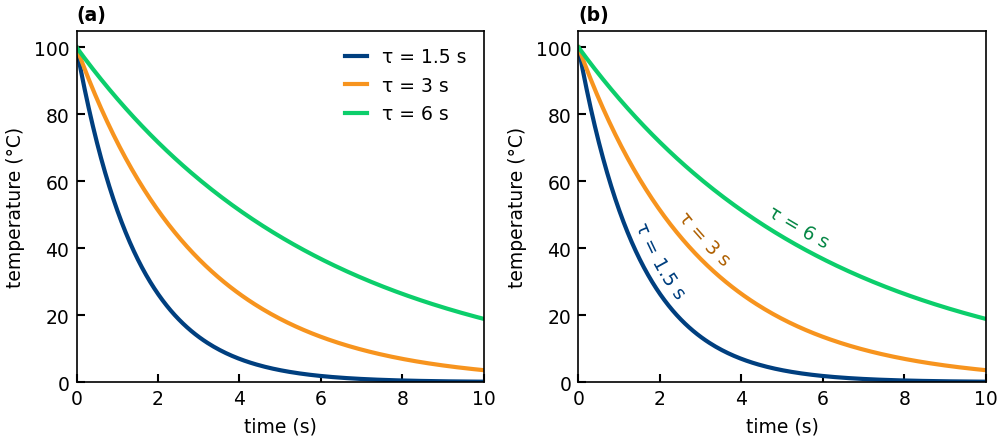
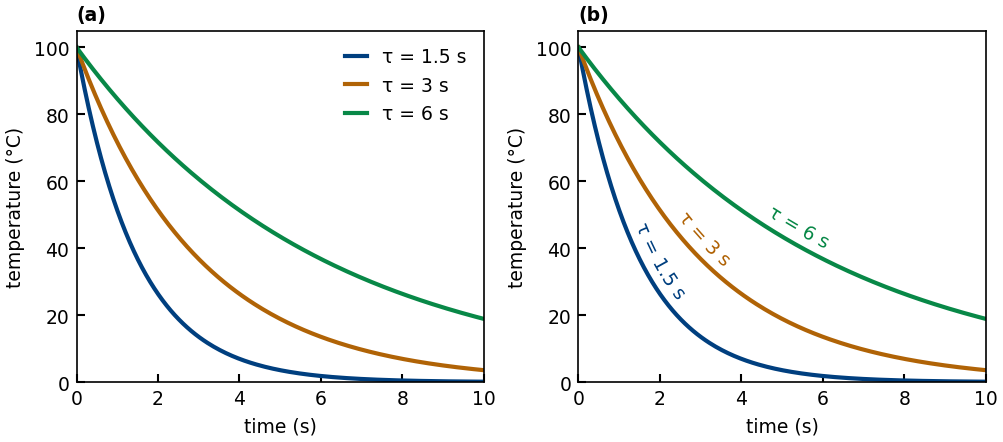
Draw each data series' line in its label's text shade, name the near-black reference colour, and tidy the stock and blackbody scripts

diff --git a/examples/example_23_stocks.py b/examples/example_23_stocks.py
@@ -1,17 +1,26 @@
 """Stock prices on real dates, each line labelled along its path.
 
-Monthly prices from Yahoo Finance, January 1990 to June 2022, from the
-``Stocks.csv`` sample data that ships with matplotlib. Each price is divided
-by its January 1990 value and smoothed with a 12-month rolling mean. The
-dates go to ``plot`` and ``curved_text`` as ``datetime64`` values, which the
-axis's date converter handles for both. The S&P 500 index is the reference
-line, in near-black. Each label sits above or below a smooth stretch of its
-line, wherever the space beside the line is open. Even smoothed, a monthly
-line wiggles at the scale of a letter, which would tilt neighbouring letters
-into each other, so each label rides the line smoothed once more, by a
-Gaussian a few months wide on the log scale the axis shows: a path that
-follows the line but not its letter-sized wiggles, and is not drawn. Older
-matplotlib versions do not ship ``Stocks.csv``; there the figure is skipped.
+Monthly values from Yahoo Finance, January 1990 to June 2022, from the
+``Stocks.csv`` sample data that ships with matplotlib: adjusted closing
+prices for three stocks, which include reinvested dividends, and the S&P 500
+price index, which does not. Each series is divided by its January 1990
+value and smoothed with a rolling mean over ``WINDOW_MONTHS``. The dates go
+to ``plot`` and ``curved_text`` as ``datetime64`` values, which the axis's
+date converter handles for both. The S&P 500 is the reference line, in
+near-black. Each label sits above or below a smooth stretch of its line,
+wherever the space beside the line is open, and no label sits where lines
+cross, so none needs a casing.
+
+Even smoothed, a monthly line wiggles at the scale of a letter, which would
+tilt neighbouring letters into each other, so each label rides the line
+smoothed once more by a Gaussian about a letter wide, on the log scale the
+axis shows: a path that follows the line without those wiggles, and is not
+drawn (#61 tracks handling this in the library).
+
+The file is read with the ``csv`` module rather than pandas, so this figure
+runs without the ``examples`` extra; the seaborn figure, 09, shows pandas.
+Older matplotlib versions do not ship ``Stocks.csv``; there the figure is
+skipped.
 """
 from __future__ import annotations
 
@@ -22,33 +31,34 @@ import numpy as np
 from matplotlib.ticker import StrMethodFormatter
 
 from curved_text import curved_text
-from _style import (PALETTE, TEXT, data_axes, figure, sample_data, save,
-                    smooth_path)
+from _style import (REFERENCE_COLOR, TEXT, data_axes, figure, sample_data,
+                    save, smooth_path)
 
-# Column, label, line and text colour, the dates the label rides (centred
-# on them), and its offset in points: positive above the line, negative below.
+# Column, label, colour of the line and its label, the dates the label rides
+# (centred on them), and its offset in points: positive above the line,
+# negative below.
 SERIES = [
-    ("MSFT", "Microsoft", PALETTE["blue"], TEXT["blue"],
-     ("2013-01-01", "2019-01-01"), 8.0),
-    ("IBM", "IBM", PALETTE["green"], TEXT["green"],
-     ("2010-06-01", "2015-06-01"), 8.0),
-    ("^GSPC", "S&P 500", "0.15", "0.15", ("2013-06-01", "2019-06-01"), -8.0),
-    ("XRX", "Xerox", PALETTE["gold"], TEXT["gold"],
-     ("2015-06-01", "2019-06-01"), 8.0),
+    ("MSFT", "Microsoft", TEXT["blue"], ("2013-01-01", "2019-01-01"), 8.0),
+    ("IBM", "IBM", TEXT["green"], ("2010-06-01", "2015-06-01"), 8.0),
+    ("^GSPC", "S&P 500", REFERENCE_COLOR, ("2013-06-01", "2019-06-01"), -8.0),
+    ("XRX", "Xerox", TEXT["gold"], ("2016-01-01", "2019-06-01"), 8.0),
 ]
 WINDOW_MONTHS = 12
-# The width (standard deviation, in months) of the Gaussian that smooths each
-# label's path: about the width of a letter on this axis.
+# The standard deviation, in months, of the Gaussian that smooths each label's
+# path: about the width of a letter on this axis.
 LABEL_SMOOTHING_MONTHS = 3.0
 
 
 def _read_stocks(path):
     """Dates and the column-to-prices table, without the dividend-date rows,
-    which have no prices."""
+    which have no prices, and without a row that repeats the one before it,
+    as the file's last row repeats June 2022."""
     with open(path, newline="") as f:
         rows = [row for row in csv.reader(f)
                 if row and not row[0].startswith("#")]
     header, rows = rows[0], [row for row in rows[1:] if any(row[1:])]
+    rows = [row for i, row in enumerate(rows)
+            if i == 0 or row[1:] != rows[i - 1][1:]]
     dates = np.array([row[0] for row in rows], dtype="datetime64[D]")
     column_to_prices = {
         name: np.array([float(row[i]) if row[i] else np.nan for row in rows])
@@ -58,7 +68,7 @@ def _read_stocks(path):
 
 
 def _rolling_mean(values, window):
-    """The mean of each run of ``window`` values, dated at the run's centre."""
+    """The mean of each run of ``window`` consecutive values."""
     return np.convolve(values, np.ones(window) / window, mode="valid")
 
 
@@ -68,23 +78,23 @@ def make(images_dir):
         print("  (skipped 23_stocks: this matplotlib has no Stocks.csv)")
         return None
     dates, column_to_prices = _read_stocks(path)
-    # Each smoothed value is dated at the middle of its 12-month window.
+    # Each smoothed value is dated at the middle of its window.
     smoothed_dates = dates[WINDOW_MONTHS // 2:][:len(dates) - WINDOW_MONTHS + 1]
 
     fig = figure(17, 10, font_size=9)
     ax = data_axes(fig.subplots())
-    for column, label, line, text, (start, end), offset in SERIES:
+    for column, label, color, (start, end), offset in SERIES:
         prices = column_to_prices[column]
         relative = _rolling_mean(prices / prices[0], WINDOW_MONTHS)
-        ax.plot(smoothed_dates, relative, color=line, linewidth=2)
+        ax.plot(smoothed_dates, relative, color=color, linewidth=2)
         span = ((smoothed_dates >= np.datetime64(start))
                 & (smoothed_dates <= np.datetime64(end)))
         label_path = smooth_path(relative, LABEL_SMOOTHING_MONTHS, log=True)[span]
         curved_text(ax, smoothed_dates[span], label_path, label, pos=0.5,
-                    anchor="center", offset=offset, color=text, fontsize=9)
+                    anchor="center", offset=offset, color=color, fontsize=9)
     ax.set_yscale("log")
     ax.yaxis.set_major_formatter(StrMethodFormatter("{x:g}"))
-    ax.set_ylabel("price relative to January 1990")
+    ax.set_ylabel("value relative to January 1990")
 
     path = os.path.join(images_dir, "23_stocks.png")
     return save(fig, path)

diff --git a/examples/_style.py b/examples/_style.py
@@ -1,14 +1,15 @@
 """Shared palette and helpers for the curved-text example gallery.
 
 Follows the repo's plot conventions: the DICE palette with contrast-checked
-text shades, white opaque
-background, constrained layout, sizes in centimetres, explicit dpi. Most panels
-here are diagrams whose subject is the text-on-curve geometry, so they hide
-their axes -- the curve is the data, and bare quantitative ticks would be
-chartjunk. The figures that plot data (direct labeling, its usetex version,
-the seaborn figure, and the applications on real data or physical laws) keep
-axes with units, and so does the log-axis panel of the gaps figure, whose subject
-is the scale.
+text shades, white opaque background, constrained layout, sizes in
+centimetres, explicit dpi. Most panels here are diagrams whose subject is the
+text-on-curve geometry, so they hide their axes -- the curve is the data, and
+bare quantitative ticks would be chartjunk. The figures that plot data (direct
+labeling, its usetex version, the seaborn figure, and the applications on real
+data or physical laws) keep axes with units, and so does the log-axis panel of
+the gaps figure, whose subject is the scale. Two data helpers sit here as
+well: ``sample_data`` finds matplotlib's sample data, and ``smooth_path``
+smooths the path a label rides on a line of real data.
 """
 from __future__ import annotations
 
@@ -19,11 +20,13 @@ import matplotlib.patheffects as patheffects
 import numpy as np
 import matplotlib.pyplot as plt
 
-# DICE palette set: blue / gold / green, for lines and fills in every figure.
+# DICE palette set: blue / gold / green.
 PALETTE = {"blue": "#003f7f", "gold": "#f7941e", "green": "#0cce6b"}
 # The same hues dark enough for text, at least 4.5:1 against white by the WCAG 2
-# contrast formula (lines and marks need 3:1). DICE gold and green are 2.28:1
-# and 2.09:1, too light to read as text; DICE blue is 10.4:1 already.
+# contrast formula. DICE gold and green are 2.28:1 and 2.09:1, too light to
+# read as text, and below the 3:1 that WCAG asks of lines and marks; DICE blue
+# is 10.4:1 already. A labelled data series uses its text shade for both its
+# line and its label, so the two match exactly and both pass.
 TEXT = {
     "blue": "#003f7f",   # 10.41:1
     "gold": "#b06306",   # 4.53:1
@@ -32,12 +35,16 @@ TEXT = {
 # Colour roles in the diagrams, where the curve and the label are the subject:
 # the curve in DICE blue, the label in dark gold, and a reference mark (such as
 # the anchor point) as a dark green ring drawn above the label, so it never
-# hides behind the text. Data figures colour each series in its DICE hue and
-# its label in the matching text shade. One exception: 08 shows ``alpha``, which
-# lightens its label, and only dark blue stays above 4.5:1 at alpha 0.85.
+# hides behind the text. Data figures colour each series, line and label
+# alike, in one text shade, and draw a reference series that the others are
+# read against (the Sun among the blackbodies, the S&P 500 among the stocks)
+# in near-black (15:1). One exception: 08
+# shows ``alpha``, which lightens its label, and only dark blue stays above
+# 4.5:1 at alpha 0.85.
 CURVE_COLOR = PALETTE["blue"]
 LABEL_COLOR = TEXT["gold"]
 MARK_COLOR = TEXT["green"]
+REFERENCE_COLOR = "0.15"
 INCH = 1 / 2.54
 DPI = 150
 
@@ -130,13 +137,16 @@ def anchor_xy(ax, x, y, pos):
 
 
 def smooth_path(values, sigma, log=False):
-    """``values`` smoothed by a Gaussian ``sigma`` samples wide, on a log scale
-    if ``log``, with the ends held at their values so the path keeps its span.
+    """``values`` smoothed by a Gaussian with a standard deviation of
+    ``sigma`` samples, on a log scale if ``log``.
+
+    Each end is padded with its own value, so the result has as many samples
+    as ``values`` and covers the same span.
 
     A label on a line of real data rides this path rather than the line: even
     smoothed, a line of monthly data wiggles at the scale of a letter, which
-    tilts neighbouring letters into each other. With ``sigma`` about a letter
-    wide, the path follows the line without those wiggles.
+    tilts neighbouring letters into each other. With ``sigma`` about a letter's
+    width, the path follows the line without those wiggles.
     """
     values = np.asarray(values, dtype=float)
     reach = int(4 * sigma)

diff --git a/examples/example_09_seaborn_pandas.py b/examples/example_09_seaborn_pandas.py
@@ -14,18 +14,19 @@ from __future__ import annotations
 import os
 
 from curved_text import curved_text
-from _style import PALETTE, TEXT, figure, sample_data, save, smooth_path
+from _style import TEXT, figure, sample_data, save, smooth_path
 
-# Column, label, line and text colour, the dates the label rides (centred on
-# them), and its offset in points: positive above the line, negative below.
+# Column, label, colour of the line and its label, the dates the label rides
+# (centred on them), and its offset in points: positive above the line,
+# negative below.
 SERIES = [
-    ("^IXIC", "NASDAQ Composite", PALETTE["blue"], TEXT["blue"],
-     ("2010-01-01", "2017-01-01"), 8.0),
-    ("^GSPC", "S&P 500", PALETTE["gold"], TEXT["gold"],
-     ("2010-01-01", "2017-01-01"), -8.0),
+    ("^IXIC", "NASDAQ Composite", TEXT["blue"], ("2010-01-01", "2017-01-01"),
+     8.0),
+    ("^GSPC", "S&P 500", TEXT["gold"], ("2010-01-01", "2017-01-01"), -8.0),
 ]
 WINDOW_MONTHS = 12
-# The width, in months, of the Gaussian that smooths each label's path.
+# The standard deviation, in months, of the Gaussian that smooths each label's
+# path (see ``smooth_path``): about the width of a letter on this axis.
 LABEL_SMOOTHING_MONTHS = 3.0
 
 
@@ -41,29 +42,32 @@ def make(images_dir):
     if path is None:
         print("  (skipped 09_seaborn_pandas: this matplotlib has no Stocks.csv)")
         return None
+    # Without the dividend-date rows, which have no prices, and without the
+    # file's last row, which repeats June 2022.
     stocks = (pd.read_csv(path, comment="#", parse_dates=["Date"])
               .dropna(how="all", subset=[column for column, *_ in SERIES])
               .set_index("Date"))
-    # A 12-month rolling mean, dated at the middle of its window.
+    stocks = stocks[~stocks.duplicated()]
+    # A rolling mean over the window, dated at the middle of the window.
     smoothed = stocks.rolling(WINDOW_MONTHS, center=True).mean()
     long_form = (smoothed[[column for column, *_ in SERIES]]
                  .reset_index()
-                 .melt(id_vars="Date", var_name="index", value_name="level")
+                 .melt(id_vars="Date", var_name="series", value_name="level")
                  .dropna())
 
     with sns.axes_style("whitegrid"):
         fig = figure(17, 9, font_size=9)
         ax = fig.subplots()
-        sns.lineplot(data=long_form, x="Date", y="level", hue="index",
-                     palette={column: line for column, _, line, *_ in SERIES},
+        sns.lineplot(data=long_form, x="Date", y="level", hue="series",
+                     palette={column: color for column, _, color, *_ in SERIES},
                      linewidth=2, legend=False, ax=ax)
-        for column, label, _, text, (start, end), offset in SERIES:
+        for column, label, color, (start, end), offset in SERIES:
             line_values = smoothed[column].dropna()
             label_path = pd.Series(
                 smooth_path(line_values, LABEL_SMOOTHING_MONTHS),
                 index=line_values.index).loc[start:end]
             curved_text(ax, label_path.index, label_path.to_numpy(), label,
-                        pos=0.5, anchor="center", offset=offset, color=text,
+                        pos=0.5, anchor="center", offset=offset, color=color,
                         fontsize=9)
         ax.set_xlabel("")
         ax.set_ylabel("index level")

diff --git a/examples/example_21_blackbody.py b/examples/example_21_blackbody.py
@@ -14,7 +14,7 @@ import os
 import numpy as np
 
 from curved_text import curved_text
-from _style import PALETTE, TEXT, data_axes, figure, save
+from _style import REFERENCE_COLOR, TEXT, data_axes, figure, save
 
 # The SI defining constants: Planck, the speed of light, and Boltzmann; and
 # Wien's displacement constant, which puts the peak at WIEN_UM_K / T.
@@ -23,19 +23,25 @@ C = 299792458.0
 K_B = 1.380649e-23
 WIEN_UM_K = 2897.771955
 
-# Temperature (K), line and text colour, label, and offset (points). The Sun
-# is the reference curve, so it is drawn in near-black, and its label sits
+# Temperature (K), colour of the line and its label, label, and offset
+# (points). The Sun is the reference curve, so it is drawn in near-black, and
+# its label sits
 # above it, in the open space; the others sit below their curves, where the
 # gap to the next curve is widest.
 SERIES = [
-    (5772, "0.15", "0.15", "5772 K, the Sun", 8.0),
-    (5000, PALETTE["blue"], TEXT["blue"], "5000 K", -8.0),
-    (4000, PALETTE["green"], TEXT["green"], "4000 K", -8.0),
-    (3000, PALETTE["gold"], TEXT["gold"], "3000 K", -8.0),
+    (5772, REFERENCE_COLOR, "5772 K, the Sun", 8.0),
+    (5000, TEXT["blue"], "5000 K", -8.0),
+    (4000, TEXT["green"], "4000 K", -8.0),
+    (3000, TEXT["gold"], "3000 K", -8.0),
 ]
 # Each label rides the stretch of its curve just past the peak, from 0.9 to
 # 1.8 times the peak wavelength, centred.
-LABEL_SPAN = (0.9, 1.8)
+LABEL_SPAN_OVER_PEAK = (0.9, 1.8)
+WAVELENGTH_UM = (0.1, 3.0)
+# The radiance axis: the top leaves room for the Sun's label above its peak,
+# and the bottom cuts off the steep short-wavelength flanks, which fall many
+# decades lower.
+RADIANCE_LIMITS = (1e4, 6e7)
 
 
 def spectral_radiance(wavelength_um, temperature):
@@ -50,18 +56,18 @@ def make(images_dir):
     fig = figure(17, 9, font_size=9)
     ax = data_axes(fig.subplots())
 
-    wavelength = np.linspace(0.1, 3.0, 1000)
-    for temperature, line, text, label, offset in SERIES:
+    wavelength = np.linspace(*WAVELENGTH_UM, 1000)
+    for temperature, color, label, offset in SERIES:
         radiance = spectral_radiance(wavelength, temperature)
-        ax.plot(wavelength, radiance, color=line, linewidth=2)
+        ax.plot(wavelength, radiance, color=color, linewidth=2)
         peak = WIEN_UM_K / temperature
-        span = ((wavelength >= LABEL_SPAN[0] * peak)
-                & (wavelength <= LABEL_SPAN[1] * peak))
+        span = ((wavelength >= LABEL_SPAN_OVER_PEAK[0] * peak)
+                & (wavelength <= LABEL_SPAN_OVER_PEAK[1] * peak))
         curved_text(ax, wavelength[span], radiance[span], label, pos=0.5,
-                    anchor="center", offset=offset, color=text, fontsize=9)
+                    anchor="center", offset=offset, color=color, fontsize=9)
     ax.set_yscale("log")
-    ax.set_xlim(0.1, 3.0)
-    ax.set_ylim(1e4, 6e7)
+    ax.set_xlim(*WAVELENGTH_UM)
+    ax.set_ylim(*RADIANCE_LIMITS)
     ax.set_xlabel("wavelength (μm)")
     ax.set_ylabel("spectral radiance (W sr⁻¹ m⁻² μm⁻¹)")
 

diff --git a/examples/example_01_direct_labeling.py b/examples/example_01_direct_labeling.py
@@ -12,7 +12,7 @@ import os
 import numpy as np
 
 from curved_text import curved_text
-from _style import PALETTE, TEXT, data_axes, figure, panel_letters, save
+from _style import TEXT, data_axes, figure, panel_letters, save
 
 SERIES = [
     (1.5, "blue", 0.38),
@@ -26,7 +26,7 @@ def _curves(ax):
     out = []
     for tau, hue, pos in SERIES:
         temp = 100.0 * np.exp(-t / tau)
-        ax.plot(t, temp, color=PALETTE[hue], linewidth=2)
+        ax.plot(t, temp, color=TEXT[hue], linewidth=2)
         out.append((t, temp, tau, hue, pos))
     ax.set_xlim(0, 10)
     ax.set_ylim(0, 105)
@@ -42,7 +42,7 @@ def make(images_dir):
     curves = _curves(ax_legend)
     data_axes(ax_legend)
     for _, _, tau, hue, _ in curves:
-        ax_legend.plot([], [], color=PALETTE[hue], linewidth=2,
+        ax_legend.plot([], [], color=TEXT[hue], linewidth=2,
                        label=f"τ = {tau:g} s")
     ax_legend.legend(frameon=False, handlelength=1.2)
 

diff --git a/examples/example_16_usetex.py b/examples/example_16_usetex.py
@@ -18,7 +18,7 @@ import matplotlib as mpl
 import numpy as np
 
 from curved_text import curved_text
-from _style import PALETTE, TEXT, data_axes, figure, save
+from _style import TEXT, data_axes, figure, save
 
 SERIES = [
     (1.5, "blue", 0.38),
@@ -40,7 +40,7 @@ def make(images_dir):
         t = np.linspace(0, 10, 200)
         for tau, hue, pos in SERIES:
             temp = 100.0 * np.exp(-t / tau)
-            ax.plot(t, temp, color=PALETTE[hue], linewidth=2)
+            ax.plot(t, temp, color=TEXT[hue], linewidth=2)
             # A math run for the symbol and plain text for the rest, so the
             # label reads like example 01's and shows both paths LaTeX
             # typesets.
